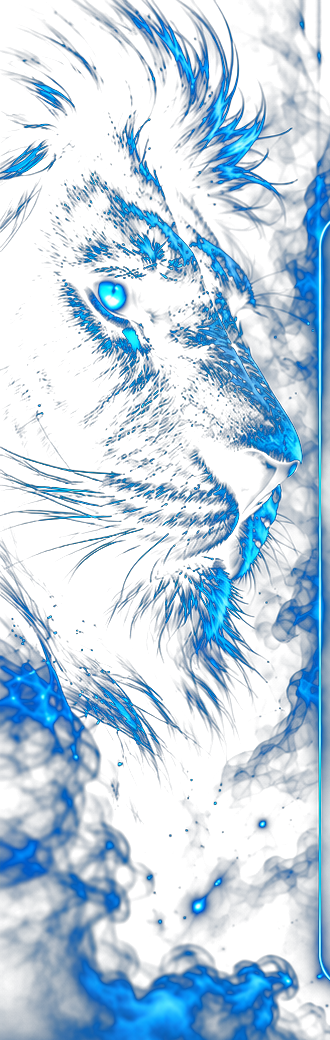
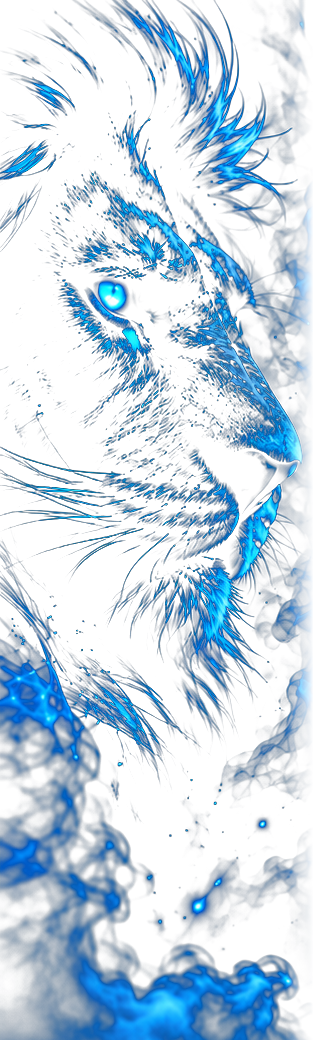
Add files via upload

diff --git a/index.html b/index.html
@@ -364,7 +364,7 @@
 <script src="https://accounts.google.com/gsi/client" async defer></script>
 <style>
 
-/* ===== IT SHAKH GOOGLE LOGIN — FINAL RESPONSIVE LAYERS ===== */
+/* ===== IT SHAKH GOOGLE LOGIN — CLEAN PROFESSIONAL LION LAYERS ===== */
 #google-login-screen{
  position:fixed; inset:0; z-index:100000; overflow:hidden;
  display:flex; align-items:center; justify-content:center;
@@ -372,29 +372,18 @@
  isolation:isolate;
 }
 #google-login-screen::before{
- content:"";position:absolute;inset:0;z-index:0;pointer-events:none;
- background:radial-gradient(ellipse at center,rgba(0,125,255,.16) 0%,rgba(0,20,45,.08) 42%,rgba(0,0,0,.48) 100%);
+ content:""; position:absolute; inset:0; z-index:0; pointer-events:none;
+ background:radial-gradient(ellipse at center,rgba(0,125,255,.14) 0%,rgba(0,20,45,.05) 48%,rgba(0,0,0,.30) 100%);
 }
+/* The lions are transparent PNG layers; no rectangular edges or HUD bars. */
 .login-lion{
  position:absolute; z-index:1; pointer-events:none; user-select:none;
- width:clamp(210px,21vw,320px); height:86vh;
- top:7vh; opacity:.72; mix-blend-mode:screen;
- filter:drop-shadow(0 0 22px rgba(0,150,255,.24));
- object-fit:cover;
- clip-path:inset(3% 0 4% 0);
+ height:min(88vh,820px); width:auto; max-width:25vw;
+ top:6vh; object-fit:contain; opacity:.88;
+ filter:drop-shadow(0 0 18px rgba(0,150,255,.20));
 }
-.login-lion.left{
- left:-18px; object-position:right center;
- clip-path:inset(3% 7% 4% 0);
- -webkit-mask-image:linear-gradient(to right,#000 0%,#000 82%,transparent 99%);
- mask-image:linear-gradient(to right,#000 0%,#000 82%,transparent 99%);
-}
-.login-lion.right{
- right:-18px; object-position:left center;
- clip-path:inset(3% 0 4% 7%);
- -webkit-mask-image:linear-gradient(to left,#000 0%,#000 82%,transparent 99%);
- mask-image:linear-gradient(to left,#000 0%,#000 82%,transparent 99%);
-}
+.login-lion.left{left:-2px;object-position:right center;}
+.login-lion.right{right:-2px;object-position:left center;}
 #google-login-card{
  position:relative; z-index:3;
  width:min(88vw,540px); min-height:600px;
@@ -412,24 +401,13 @@
  box-shadow:0 0 28px rgba(56,189,248,.48);
  display:flex;align-items:center;justify-content:center;
 }
-.login-logo-wrap::before{
- content:"";position:absolute;inset:7px;border-radius:50%;background:#030914;
-}
+.login-logo-wrap::before{content:"";position:absolute;inset:7px;border-radius:50%;background:#030914;}
 .login-logo{width:112px;height:112px;object-fit:contain;z-index:2;filter:drop-shadow(0 0 18px rgba(56,189,248,.8));}
-#google-login-card h1{
- margin:24px 0 7px;font-size:clamp(34px,7vw,50px);line-height:1;
- letter-spacing:4px;color:#38bdf8;text-shadow:0 0 22px rgba(56,189,248,.75);
-}
+#google-login-card h1{margin:24px 0 7px;font-size:clamp(34px,7vw,50px);line-height:1;letter-spacing:4px;color:#38bdf8;text-shadow:0 0 22px rgba(56,189,248,.75);}
 .login-subtitle{font-family:monospace;font-size:12px;letter-spacing:3px;color:#cbd5e1;margin-bottom:26px;text-align:center;}
 #google-signin-button{width:min(100%,430px);min-height:50px;display:flex;justify-content:center;align-items:center;}
 .login-features{display:grid;grid-template-columns:repeat(3,1fr);gap:10px;width:min(100%,440px);margin-top:28px;}
-.login-feature{
- appearance:none;width:100%;min-height:92px;padding:14px 8px;
- border:1px solid rgba(56,189,248,.28);border-radius:12px;
- background:rgba(3,15,28,.62);color:#cbd5e1;cursor:pointer;
- text-align:center;font:11px monospace;letter-spacing:2px;
- transition:.25s;box-shadow:inset 0 0 18px rgba(0,120,255,.03);
-}
+.login-feature{appearance:none;width:100%;min-height:92px;padding:14px 8px;border:1px solid rgba(56,189,248,.28);border-radius:12px;background:rgba(3,15,28,.62);color:#cbd5e1;cursor:pointer;text-align:center;font:11px monospace;letter-spacing:2px;transition:.25s;box-shadow:inset 0 0 18px rgba(0,120,255,.03);}
 .login-feature:hover,.login-feature:focus-visible{border-color:#38bdf8;transform:translateY(-3px);box-shadow:0 0 20px rgba(56,189,248,.22);color:#fff;outline:none;}
 .login-feature b{display:block;color:#38bdf8;font-size:27px;margin-bottom:7px;text-shadow:0 0 12px rgba(56,189,248,.7);}
 .login-welcome{margin-top:25px;padding-top:16px;width:85%;border-top:1px solid rgba(56,189,248,.2);text-align:center;color:#38bdf8;font:10px monospace;letter-spacing:4px;}
@@ -441,13 +419,13 @@
 .login-info-close{border:0;border-radius:20px;padding:9px 22px;background:#38bdf8;color:#001018;font-weight:800;cursor:pointer;}
 @keyframes loginRingRotate{to{transform:rotate(360deg)}}
 @media(max-width:850px){
- .login-lion{width:27vw;height:74vh;top:13vh;opacity:.38;}
+ .login-lion{height:72vh;max-width:27vw;top:14vh;opacity:.52;}
  #google-login-card{width:min(88vw,500px);min-height:540px;padding:28px 20px;}
  .login-logo-wrap{width:125px;height:125px}.login-logo{width:92px;height:92px;}
 }
 @media(max-width:560px){
- .login-lion{width:31vw;height:60vh;top:21vh;opacity:.22;}
- .login-lion.left{left:-10px}.login-lion.right{right:-10px;}
+ .login-lion{height:52vh;max-width:30vw;top:24vh;opacity:.30;}
+ .login-lion.left{left:-4px}.login-lion.right{right:-4px;}
  #google-login-card{width:92vw;min-height:500px;padding:25px 14px;border-radius:20px;}
  .login-features{gap:6px;}
  .login-feature{min-height:78px;font-size:8px;letter-spacing:1px;padding:10px 4px;}
